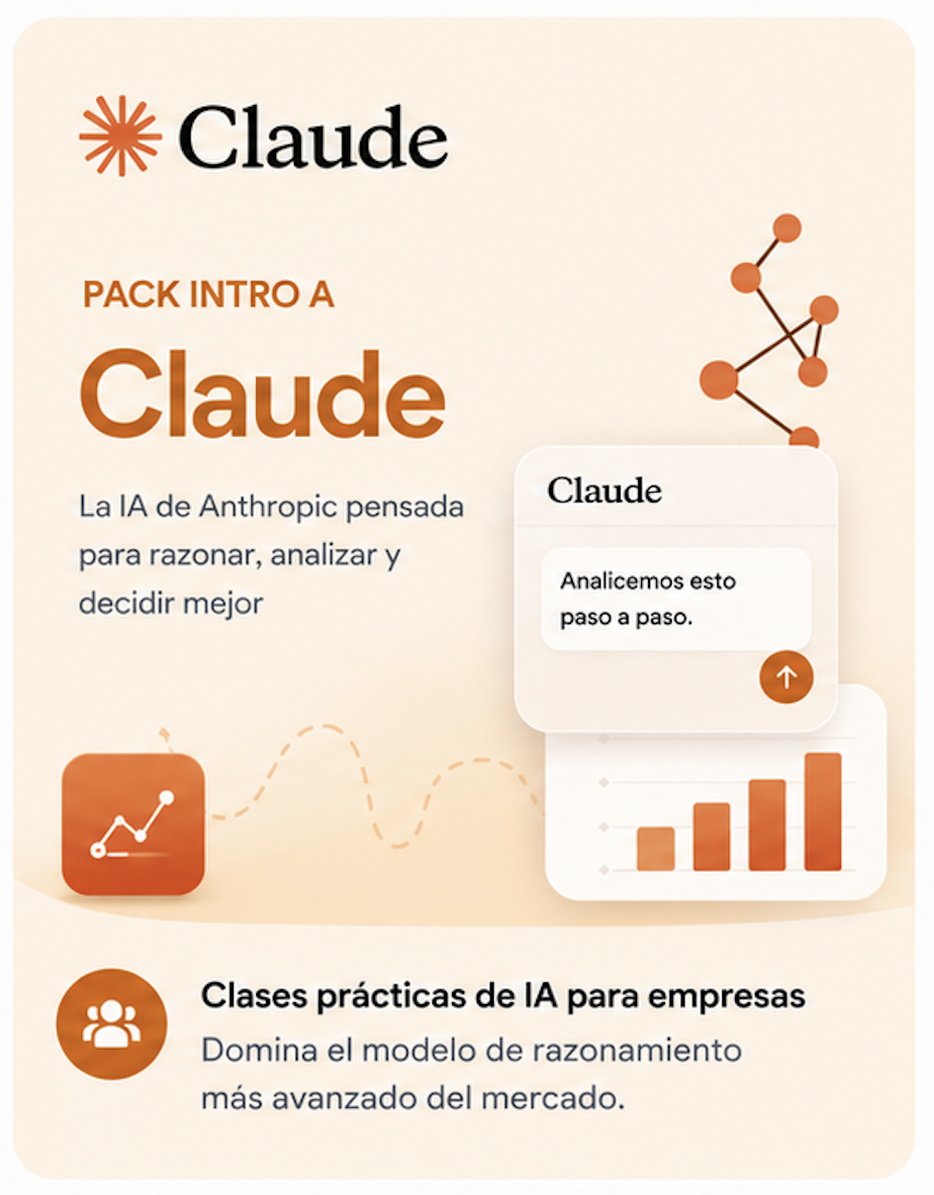
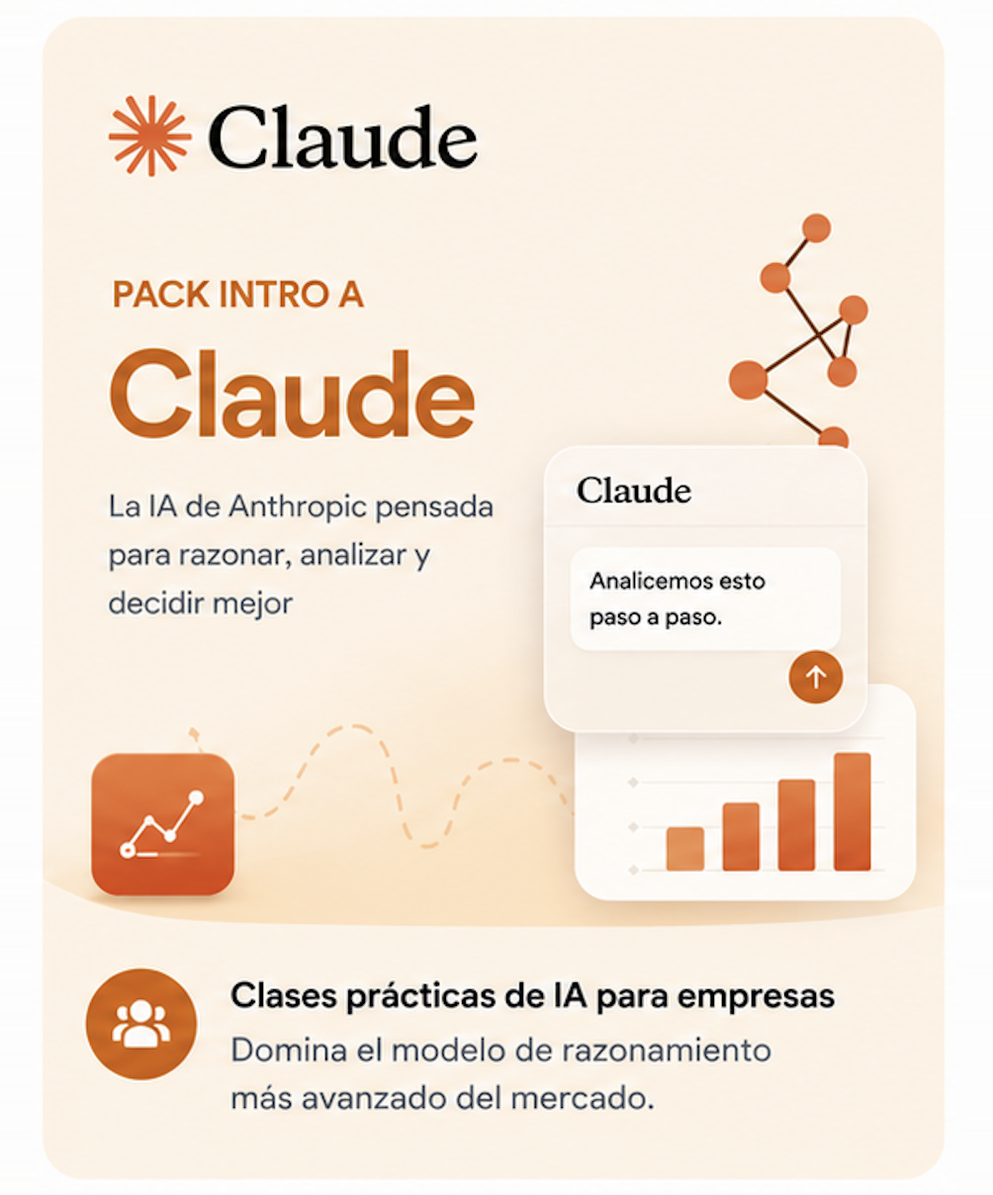
feat(talleres): agrega el Pack ChatGPT · OpenAI
- Nueva página talleres/chatgpt.html con los 3 talleres adaptados
  al ecosistema de OpenAI (taller 1 igual; talleres 2 y 3 con
  productos y herramientas de ChatGPT)
- Tarjeta del pack en talleres-practicos-ia.html: el grid pasa de
  3 a 4 columnas (2 en tablet, 1 en móvil)
- Corrige el recorte lateral de las imágenes de los packs: la altura
  de la tarjeta ahora la define la imagen en vez de un alto fijo con
  object-fit cover, que cortaba entre 40 y 61 px por imagen
- Normaliza las 4 imágenes a la misma proporción (relleno lateral,
  sin recortar contenido) para que las tarjetas queden parejas
- Badge "Pack de 3 talleres" más chico y subido a la franja libre
  superior, para que no pise los logos de las tarjetas
- Ruta corta /pack-chatgpt en vercel.json

diff --git a/talleres/chatgpt.html b/talleres/chatgpt.html
@@ -1,0 +1,329 @@
+<!DOCTYPE html>
+<html lang="es">
+<head>
+  <meta charset="UTF-8">
+  <meta name="viewport" content="width=device-width, initial-scale=1.0">
+  <meta name="robots" content="noindex, nofollow">
+  <title>Pack ChatGPT · OpenAI · 3 Talleres · Reyes IA</title>
+  <link rel="icon" type="image/png" href="/icon%20reyes%20IA.png">
+  <link rel="preconnect" href="https://fonts.googleapis.com">
+  <link rel="preconnect" href="https://fonts.gstatic.com" crossorigin>
+  <link href="https://fonts.googleapis.com/css2?family=Plus+Jakarta+Sans:wght@400;500;600;700;800&family=Caveat:wght@500;700&display=swap" rel="stylesheet">
+  <style>
+    *, *::before, *::after { box-sizing: border-box; margin: 0; padding: 0; }
+    :root {
+      --navy: #1a2537; --gold: #c09b5a; --bg: #f0fdf9;
+      --text: #1a1a1a; --muted: #6b7280; --border: #e5e7eb;
+      --accent: #0F9D77;
+    }
+    body { font-family: 'Plus Jakarta Sans', system-ui, sans-serif; color: var(--text); background: #fff; }
+
+    .header { background: var(--navy); padding: 0 24px; height: 64px; display: flex; align-items: center; justify-content: space-between; position: sticky; top: 0; z-index: 200; box-shadow: 0 2px 12px rgba(0,0,0,.25); }
+    .logo img { height: 44px; object-fit: contain; }
+    .back-btn { background: rgba(255,255,255,.12); color: #fff; padding: 8px 16px; border-radius: 8px; font-weight: 600; font-size: 13px; text-decoration: none; transition: all .2s; border: 1px solid rgba(255,255,255,.2); }
+    .back-btn:hover { background: rgba(255,255,255,.2); }
+
+    .hero { background: linear-gradient(135deg, #0B5F4A 0%, #10A37F 100%); color: #fff; padding: 56px 24px 48px; }
+    .hero-inner { max-width: 960px; margin: 0 auto; display: flex; align-items: center; gap: 32px; justify-content: space-between; }
+    .dp-mini { flex-shrink: 0; text-align: center; transform: rotate(-3deg); background: rgba(255,255,255,.08); border: 1px solid rgba(255,255,255,.15); border-radius: 20px; padding: 14px 18px 12px; transition: transform .3s; }
+    .dp-mini:hover { transform: rotate(-1deg) scale(1.04); }
+    .dp-mini-label { font-family: 'Caveat', cursive; font-size: 15px; color: rgba(255,255,255,.6); line-height: 1.3; }
+    .dp-mini-name { font-family: 'Caveat', cursive; font-size: 24px; font-weight: 700; color: var(--gold); line-height: 1.1; margin: 3px 0 10px; }
+    .dp-mini-icon { width: 68px; height: 68px; border-radius: 50%; object-fit: cover; border: 2px solid rgba(255,255,255,.2); display: block; margin: 0 auto; }
+    .hero-icon { width: 72px; height: 72px; border-radius: 20px; background: linear-gradient(135deg, #0B7A5E, #10A37F); display: flex; align-items: center; justify-content: center; font-size: 36px; flex-shrink: 0; box-shadow: 0 8px 24px rgba(0,0,0,.3); }
+    .hero-badge { display: inline-flex; align-items: center; gap: 5px; background: rgba(255,255,255,.15); border: 1px solid rgba(255,255,255,.25); border-radius: 20px; padding: 4px 12px; font-size: 11px; font-weight: 700; letter-spacing: .5px; text-transform: uppercase; margin-bottom: 10px; }
+    .hero-title { font-size: 2.4rem; font-weight: 800; line-height: 1.1; margin-bottom: 8px; }
+    .hero-sub { font-size: 15px; opacity: .85; line-height: 1.5; }
+
+    .main-wrap { max-width: 960px; margin: 0 auto; padding: 56px 24px; }
+    .content-grid { display: grid; grid-template-columns: 1fr 300px; gap: 40px; align-items: start; }
+
+    .ws-track { display: flex; flex-direction: column; }
+    .ws-step { display: flex; gap: 20px; }
+    .ws-col-l { display: flex; flex-direction: column; align-items: center; }
+    .ws-num { width: 44px; height: 44px; border-radius: 50%; display: flex; align-items: center; justify-content: center; font-weight: 800; font-size: 17px; color: #fff; flex-shrink: 0; background: var(--accent); }
+    .ws-line { flex: 1; width: 2px; background: var(--border); margin: 5px 0; min-height: 28px; }
+    .ws-step:last-child .ws-line { display: none; }
+    .ws-content { padding-bottom: 36px; flex: 1; padding-top: 4px; }
+    .ws-tags { display: flex; align-items: center; gap: 8px; flex-wrap: wrap; margin-bottom: 9px; }
+    .ws-tag { display: inline-flex; align-items: center; border-radius: 20px; padding: 3px 11px; font-size: 11px; font-weight: 700; text-transform: uppercase; letter-spacing: .4px; background: #d1fae5; color: #065f46; }
+    .ws-tag.hands-on { background: #ECFDF5; color: #065F46; border: 1px solid #A7F3D0; }
+    .ws-title { font-size: 18px; font-weight: 800; color: var(--navy); margin-bottom: 9px; line-height: 1.3; }
+    .ws-desc { font-size: 14px; color: #374151; line-height: 1.65; }
+    .ws-chips { display: flex; gap: 8px; margin-top: 12px; flex-wrap: wrap; }
+    .ws-chip { background: #f0fdf9; border: 1px solid #A7F3D0; border-radius: 20px; padding: 4px 11px; font-size: 12px; font-weight: 600; color: #374151; }
+    .ws-topics { display: grid; grid-template-columns: 1fr 1fr; gap: 5px 20px; margin-bottom: 14px; }
+    .wt { display: flex; align-items: flex-start; gap: 8px; font-size: 13px; color: #4B5563; line-height: 1.45; padding: 3px 0; }
+    .wt-dot { width: 6px; height: 6px; border-radius: 50%; background: #D1D5DB; flex-shrink: 0; margin-top: 5px; }
+    @media(max-width:600px){ .ws-topics { grid-template-columns: 1fr; } }
+
+    .price-card { background: #fff; border: 1.5px solid var(--border); border-radius: 20px; overflow: hidden; position: sticky; top: 84px; box-shadow: 0 4px 24px rgba(0,0,0,.07); }
+    .pc-accent { height: 5px; background: var(--accent); }
+    .pc-top { padding: 20px 22px 0; }
+    .pc-label { font-size: 11px; font-weight: 700; text-transform: uppercase; letter-spacing: .5px; color: var(--muted); margin-bottom: 6px; }
+    .pc-breakdown { display: flex; align-items: baseline; gap: 6px; margin-bottom: 3px; }
+    .pc-price { font-size: 42px; font-weight: 800; line-height: 1; color: var(--accent); }
+    .pc-uf { font-size: 16px; font-weight: 700; color: var(--accent); }
+    .pc-per-taller { font-size: 12px; color: var(--muted); margin-bottom: 4px; }
+    .pc-note { font-size: 13px; color: var(--muted); margin-bottom: 16px; }
+    .pc-detail { font-size: 12px; color: #374151; background: #f0fdf9; border-radius: 10px; padding: 9px 12px; margin-bottom: 18px; line-height: 1.55; }
+    .pc-includes { list-style: none; display: flex; flex-direction: column; gap: 9px; margin-bottom: 20px; padding: 0 2px; }
+    .pc-includes li { display: flex; align-items: flex-start; gap: 9px; font-size: 13px; color: #374151; line-height: 1.4; }
+    .pc-check { font-size: 13px; font-weight: 700; flex-shrink: 0; margin-top: 1px; color: var(--accent); }
+    .pc-cta { display: block; text-align: center; padding: 14px; border-radius: 12px; font-weight: 700; font-size: 14px; text-decoration: none; color: #fff; transition: all .2s; border: none; cursor: pointer; font-family: inherit; width: 100%; background: var(--accent); }
+    .pc-cta:hover { filter: brightness(1.1); transform: translateY(-1px); box-shadow: 0 6px 16px rgba(16,163,127,.35); }
+    .pc-bottom { padding: 14px 22px 18px; border-top: 1px solid var(--border); }
+    .pc-footer-txt { font-size: 12px; color: var(--muted); text-align: center; line-height: 1.55; }
+
+    .contact-section { padding: 64px 24px; background: #f0fdf9; }
+    .contact-inner { max-width: 600px; margin: 0 auto; }
+    .contact-title { font-size: 1.8rem; font-weight: 800; color: var(--navy); text-align: center; margin-bottom: 8px; }
+    .contact-sub { font-size: 14px; color: var(--muted); text-align: center; margin-bottom: 32px; line-height: 1.55; }
+    .contact-form-box { background: #fff; border-radius: 20px; padding: 32px; border: 1.5px solid #A7F3D0; box-shadow: 0 4px 24px rgba(0,0,0,.06); }
+    .form-row { display: grid; grid-template-columns: 1fr 1fr; gap: 16px; }
+    .form-group { display: flex; flex-direction: column; gap: 6px; margin-bottom: 18px; }
+    .form-group label { font-size: 13px; font-weight: 700; color: var(--navy); }
+    .form-group input, .form-group select, .form-group textarea { border: 1.5px solid var(--border); border-radius: 10px; padding: 11px 14px; font-size: 14px; font-family: inherit; color: var(--text); background: #fff; transition: border-color .2s; outline: none; }
+    .form-group input:focus, .form-group select:focus, .form-group textarea:focus { border-color: var(--accent); }
+    .form-group textarea { resize: vertical; min-height: 90px; }
+    .form-submit { background: var(--accent); color: #fff; padding: 14px; border-radius: 12px; border: none; font-size: 15px; font-weight: 700; font-family: inherit; cursor: pointer; width: 100%; transition: all .2s; }
+    .form-submit:hover { filter: brightness(1.1); transform: translateY(-1px); }
+    .form-success { display: none; text-align: center; padding: 24px; }
+    .form-success.show { display: block; }
+    .form-success-icon { font-size: 48px; margin-bottom: 12px; }
+    .form-success h3 { font-size: 20px; font-weight: 800; color: var(--navy); margin-bottom: 8px; }
+    .form-success p { font-size: 14px; color: var(--muted); }
+
+    .footer { background: var(--navy); color: #fff; text-align: center; padding: 28px 24px; font-size: 13px; }
+    .footer a { color: var(--gold); text-decoration: none; margin: 0 6px; }
+
+    @media(max-width: 768px){
+      .hero-inner { flex-direction: column; align-items: flex-start; }
+      .hero-title { font-size: 1.8rem; }
+      .content-grid { grid-template-columns: 1fr; }
+      .price-card { position: static; }
+      .form-row { grid-template-columns: 1fr; }
+      .dp-mini { display: none; }
+    }
+  </style>
+</head>
+<body>
+
+<header class="header">
+  <a href="../talleres-practicos-ia.html" class="logo"><img src="../logo reyes IA horizontal blanco.png" alt="Reyes IA"></a>
+  <a href="../talleres-practicos-ia.html" class="back-btn">← Volver a talleres</a>
+</header>
+
+<section class="hero">
+  <div class="hero-inner">
+    <div class="hero-icon">
+      <svg width="44" height="44" viewBox="0 0 24 24" fill="none" aria-hidden="true">
+        <path fill="#fff" d="M22.2819 9.8211a5.9847 5.9847 0 0 0-.5157-4.9108 6.0462 6.0462 0 0 0-6.5098-2.9A6.0651 6.0651 0 0 0 4.9807 4.1818a5.9847 5.9847 0 0 0-3.9977 2.9 6.0462 6.0462 0 0 0 .7427 7.0966 5.98 5.98 0 0 0 .511 4.9107 6.051 6.051 0 0 0 6.5146 2.9001A5.9847 5.9847 0 0 0 13.2599 24a6.0557 6.0557 0 0 0 5.7718-4.2058 5.9894 5.9894 0 0 0 3.9977-2.9001 6.0557 6.0557 0 0 0-.7475-7.0729zm-9.022 12.6081a4.4755 4.4755 0 0 1-2.8764-1.0408l.1419-.0804 4.7783-2.7582a.7948.7948 0 0 0 .3927-.6813v-6.7369l2.02 1.1686a.071.071 0 0 1 .038.052v5.5826a4.504 4.504 0 0 1-4.4945 4.4944zm-9.6607-4.1254a4.4708 4.4708 0 0 1-.5346-3.0137l.142.0852 4.783 2.7582a.7712.7712 0 0 0 .7806 0l5.8428-3.3685v2.3324a.0804.0804 0 0 1-.0332.0615L9.74 19.9502a4.4992 4.4992 0 0 1-6.1408-1.6464zM2.3408 7.8956a4.485 4.485 0 0 1 2.3655-1.9728V11.6a.7664.7664 0 0 0 .3879.6765l5.8144 3.3543-2.0201 1.1685a.0757.0757 0 0 1-.071 0l-4.8303-2.7865A4.504 4.504 0 0 1 2.3408 7.872zm16.5963 3.8558L13.1038 8.364 15.1192 7.2a.0757.0757 0 0 1 .071 0l4.8303 2.7913a4.4944 4.4944 0 0 1-.6765 8.1042v-5.6772a.79.79 0 0 0-.407-.667zm2.0107-3.0231l-.142-.0852-4.7735-2.7818a.7759.7759 0 0 0-.7854 0L9.409 9.2297V6.8974a.0662.0662 0 0 1 .0284-.0615l4.8303-2.7866a4.4992 4.4992 0 0 1 6.6802 4.66zM8.3065 12.863l-2.02-1.1638a.0804.0804 0 0 1-.038-.0567V6.0742a4.4992 4.4992 0 0 1 7.3757-3.4537l-.142.0805L8.704 5.459a.7948.7948 0 0 0-.3927.6813zm1.0976-2.3654l2.602-1.4998 2.6069 1.4998v2.9994l-2.5974 1.4997-2.6067-1.4997Z"/>
+      </svg>
+    </div>
+    <div>
+      <div class="hero-badge">Pack de 3 talleres</div>
+      <div class="hero-title">ChatGPT · OpenAI</div>
+      <div class="hero-sub">La IA más usada del mundo, aplicada al trabajo diario de tu equipo</div>
+    </div>
+    <div class="dp-mini">
+      <div class="dp-mini-label">talleres presenciales</div>
+      <div class="dp-mini-label">dictados por</div>
+      <div class="dp-mini-name">Felipe Reyes</div>
+      <img src="../icon-felipe.png" alt="Felipe Reyes" class="dp-mini-icon">
+    </div>
+  </div>
+</section>
+
+<div style="background:#f8fafc; padding: 32px 24px 0;">
+  <div style="max-width:960px; margin:0 auto;">
+    <img src="img-talleres-realizados.png" alt="Talleres realizados" style="width:100%; border-radius:16px; display:block; box-shadow:0 4px 24px rgba(0,0,0,.1);">
+    <p style="text-align:right; font-size:13px; font-weight:600; color:#6b7280; margin-top:10px;">+ 150 empresas capacitadas en IA aplicada</p>
+  </div>
+</div>
+
+<div class="main-wrap">
+  <div class="content-grid">
+    <div class="ws-track">
+      <div class="ws-step">
+        <div class="ws-col-l">
+          <div class="ws-num">1</div>
+          <div class="ws-line"></div>
+        </div>
+        <div class="ws-content">
+          <div class="ws-tags">
+            <span class="ws-tag">Taller 1 · Introductorio</span>
+          </div>
+          <div class="ws-title">Introducción a la IA + Tour por ChatGPT</div>
+          <div class="ws-topics">
+            <span class="wt"><span class="wt-dot"></span>Intro a la Inteligencia Artificial</span>
+            <span class="wt"><span class="wt-dot"></span>3 verdades sobre uso de IA</span>
+            <span class="wt"><span class="wt-dot"></span>Intro al mundo LLM</span>
+            <span class="wt"><span class="wt-dot"></span>Fundamentos del prompt</span>
+            <span class="wt"><span class="wt-dot"></span>Ejemplos de uso cotidiano</span>
+            <span class="wt"><span class="wt-dot"></span>Intro a ChatGPT</span>
+            <span class="wt"><span class="wt-dot"></span>Activaciones modelos</span>
+            <span class="wt"><span class="wt-dot"></span>4 esferas IA generativa</span>
+            <span class="wt"><span class="wt-dot"></span>Concepto "memorización"</span>
+            <span class="wt"><span class="wt-dot"></span>Herramienta dictado</span>
+            <span class="wt"><span class="wt-dot"></span>Confidencialidad</span>
+            <span class="wt"><span class="wt-dot"></span>Regulaciones actuales IA</span>
+            <span class="wt"><span class="wt-dot"></span>Uso responsable</span>
+            <span class="wt"><span class="wt-dot"></span>IA en los próximos años</span>
+          </div>
+          <div class="ws-chips">
+            <span class="ws-chip">⏱ 1.5 hrs</span>
+            <span class="ws-chip">Presencial</span>
+          </div>
+        </div>
+      </div>
+      <div class="ws-step">
+        <div class="ws-col-l">
+          <div class="ws-num">2</div>
+          <div class="ws-line"></div>
+        </div>
+        <div class="ws-content">
+          <div class="ws-tags">
+            <span class="ws-tag">Taller 2 · ChatGPT App</span>
+            <span class="ws-tag hands-on">Metodología Hands-On</span>
+          </div>
+          <div class="ws-title">Dominio de la App de ChatGPT</div>
+          <div class="ws-topics">
+            <span class="wt"><span class="wt-dot"></span>Recap general</span>
+            <span class="wt"><span class="wt-dot"></span>Tour por ChatGPT</span>
+            <span class="wt"><span class="wt-dot"></span>3 mundos en ChatGPT</span>
+            <span class="wt"><span class="wt-dot"></span>ChatGPT chat</span>
+            <span class="wt"><span class="wt-dot"></span>Sidebar opciones</span>
+            <span class="wt"><span class="wt-dot"></span>Razonamiento (Thinking / Pro)</span>
+            <span class="wt"><span class="wt-dot"></span>Tools / herramientas</span>
+            <span class="wt"><span class="wt-dot"></span>Conectores y MCP ⭐</span>
+            <span class="wt"><span class="wt-dot"></span>Memoria e instrucciones personalizadas</span>
+            <span class="wt"><span class="wt-dot"></span>Proyectos ⭐</span>
+            <span class="wt"><span class="wt-dot"></span>ChatGPT en el Office ⭐</span>
+            <span class="wt"><span class="wt-dot"></span>Optimización de uso y límites</span>
+          </div>
+          <div class="ws-chips">
+            <span class="ws-chip">⏱ 1.5 hrs</span>
+            <span class="ws-chip">Presencial</span>
+          </div>
+        </div>
+      </div>
+      <div class="ws-step">
+        <div class="ws-col-l">
+          <div class="ws-num">3</div>
+        </div>
+        <div class="ws-content">
+          <div class="ws-tags">
+            <span class="ws-tag">Taller 3 · ChatGPT Avanzado</span>
+            <span class="ws-tag hands-on">Metodología Hands-On</span>
+          </div>
+          <div class="ws-title">Agentes, Canvas & GPTs</div>
+          <div class="ws-topics">
+            <span class="wt"><span class="wt-dot"></span>GPTs personalizados ⭐</span>
+            <span class="wt"><span class="wt-dot"></span>Apps y conectores ⭐</span>
+            <span class="wt"><span class="wt-dot"></span>Canvas ⭐</span>
+            <span class="wt"><span class="wt-dot"></span>ChatGPT Agente</span>
+            <span class="wt"><span class="wt-dot"></span>Agente · acciones reactivas</span>
+            <span class="wt"><span class="wt-dot"></span>Agente · tareas programadas</span>
+            <span class="wt"><span class="wt-dot"></span>Agente · navegación en vivo ⭐</span>
+            <span class="wt"><span class="wt-dot"></span>Deep Research</span>
+            <span class="wt"><span class="wt-dot"></span>Intro Agentes</span>
+            <span class="wt"><span class="wt-dot"></span>Agentes optimizados</span>
+          </div>
+          <div class="ws-chips">
+            <span class="ws-chip">⏱ 1.5 hrs</span>
+            <span class="ws-chip">Presencial</span>
+          </div>
+        </div>
+      </div>
+    </div>
+
+    <div class="price-card">
+      <div class="pc-accent"></div>
+      <div class="pc-top">
+        <div class="pc-label">Costo del programa</div>
+        <div class="pc-breakdown">
+          <span class="pc-price">51</span>
+          <span class="pc-uf">UF</span>
+        </div>
+        <div class="pc-per-taller">17 UF por taller · pack de 3</div>
+        <div class="pc-note">Total programa completo</div>
+        <div class="pc-detail">hasta 20 personas por sesión · 4.5 hrs en total</div>
+        <ul class="pc-includes">
+          <li><span class="pc-check">✓</span>Portal web exclusivo del equipo</li>
+          <li><span class="pc-check">✓</span>Quiz interactivo por sesión</li>
+          <li><span class="pc-check">✓</span>Habilidades desbloqueables + desafíos entre sesiones</li>
+          <li><span class="pc-check">✓</span>PPT descargable post-taller</li>
+          <li><span class="pc-check">✓</span>Presencial · también disponible online</li>
+          <li><span class="pc-check">✓</span>Talleres en oficinas del cliente</li>
+        </ul>
+        <button class="pc-cta" onclick="document.getElementById('contacto').scrollIntoView({behavior:'smooth'})">Me interesa este pack →</button>
+      </div>
+      <div class="pc-bottom">
+        <div class="pc-footer-txt">📅 Coordinamos fechas según tu calendario</div>
+      </div>
+    </div>
+  </div>
+</div>
+
+<section id="contacto" class="contact-section">
+  <div class="contact-inner">
+    <div class="contact-title">¿Te interesa el Pack ChatGPT?</div>
+    <div class="contact-sub">Completa el formulario y te contacto en menos de 24 horas para coordinar fechas y ajustar el programa a tu equipo.</div>
+    <div class="contact-form-box">
+      <div class="form-success" id="formSuccess">
+        <div class="form-success-icon">🎉</div>
+        <h3>¡Mensaje recibido!</h3>
+        <p>Te contactaré en menos de 24 horas para coordinar los detalles del programa.</p>
+      </div>
+      <form id="talleresForm" action="https://formspree.io/f/mvgbjoyy" method="POST">
+        <input type="hidden" name="servicio" value="Pack ChatGPT · 3 Talleres">
+        <div class="form-row">
+          <div class="form-group">
+            <label>Nombre *</label>
+            <input type="text" name="nombre" required placeholder="Tu nombre">
+          </div>
+          <div class="form-group">
+            <label>Empresa *</label>
+            <input type="text" name="empresa" required placeholder="Nombre de la empresa">
+          </div>
+        </div>
+        <div class="form-row">
+          <div class="form-group">
+            <label>Email *</label>
+            <input type="email" name="email" required placeholder="tu@empresa.com">
+          </div>
+          <div class="form-group">
+            <label>Teléfono</label>
+            <input type="tel" name="telefono" placeholder="+56 9 XXXX XXXX">
+          </div>
+        </div>
+        <div class="form-group">
+          <label>Mensaje (opcional)</label>
+          <textarea name="mensaje" placeholder="Tamaño del equipo, fechas tentativas u otras consultas…"></textarea>
+        </div>
+        <button type="submit" class="form-submit">Me interesa, quiero este programa →</button>
+      </form>
+    </div>
+  </div>
+</section>
+
+<footer class="footer">
+  <p>✉ <a href="mailto:felipe@reyesia.com">felipe@reyesia.com</a> · <a href="/">reyesia.com</a></p>
+  <p style="margin-top:8px;opacity:.5;">© 2025 Reyes IA</p>
+</footer>
+
+<script>
+  document.getElementById('talleresForm').addEventListener('submit', async function(e){
+    e.preventDefault();
+    const btn = this.querySelector('.form-submit');
+    btn.textContent = 'Enviando…'; btn.disabled = true;
+    try {
+      const res = await fetch(this.action, { method:'POST', body: new FormData(this), headers:{'Accept':'application/json'} });
+      if(res.ok){ this.style.display='none'; document.getElementById('formSuccess').classList.add('show'); }
+      else { btn.textContent = 'Error al enviar. Intenta de nuevo.'; btn.disabled = false; }
+    } catch { btn.textContent = 'Error al enviar. Intenta de nuevo.'; btn.disabled = false; }
+  });
+</script>
+</body>
+</html>

diff --git a/talleres-practicos-ia.html b/talleres-practicos-ia.html
@@ -5,7 +5,7 @@
   <meta name="viewport" content="width=device-width, initial-scale=1.0">
   <meta name="robots" content="noindex, nofollow">
   <title>Talleres de IA por Ecosistema · Reyes IA</title>
-  <meta name="description" content="3 talleres intensivos de IA adaptados al ecosistema que ya usa tu empresa: Microsoft Copilot, Google Gemini o Claude.">
+  <meta name="description" content="3 talleres intensivos de IA adaptados al ecosistema que ya usa tu empresa: ChatGPT, Microsoft Copilot, Google Gemini o Claude.">
   <link rel="icon" type="image/png" href="/icon%20reyes%20IA.png">
   <link rel="preconnect" href="https://fonts.googleapis.com">
   <link rel="preconnect" href="https://fonts.gstatic.com" crossorigin>
@@ -37,10 +37,11 @@
     .dp-name { font-family: 'Caveat', cursive; font-size: 34px; font-weight: 700; color: var(--gold); line-height: 1.1; margin-bottom: 16px; }
     .dp-icon { width: 100px; height: 100px; border-radius: 50%; object-fit: cover; border: 3px solid rgba(255,255,255,.25); display: block; margin: 0 auto; }
     .hero-creds { display: flex; flex-wrap: nowrap; gap: 6px; margin-top: 22px; }
-    .hero-cred { flex: 1 1 0; display: flex; align-items: center; justify-content: center; gap: 5px; background: rgba(255,255,255,.1); border: 1px solid rgba(255,255,255,.15); border-radius: 20px; padding: 4px 8px; font-size: 10.5px; font-weight: 600; color: rgba(255,255,255,.82); text-align: center; }
+    .hero-cred { flex: 1 1 0; display: flex; align-items: center; justify-content: center; gap: 5px; background: rgba(255,255,255,.1); border: 1px solid rgba(255,255,255,.15); border-radius: 20px; padding: 4px 8px; font-size: 11px; font-weight: 600; color: rgba(255,255,255,.82); text-align: center; }
     .hero-cred-dot { width: 5px; height: 5px; border-radius: 50%; background: var(--gold); flex-shrink: 0; }
 
     @media(max-width: 768px){
+      .hero-cred { font-size: 9px; }
       .hero-inner { flex-direction: column; gap: 20px; }
       .dictado-por { transform: none; flex-direction: row; align-items: center; gap: 10px; padding: 8px 14px 8px 8px; border-radius: 40px; display: inline-flex; }
       .dp-label { font-size: 12px; line-height: 1.3; }
@@ -49,11 +50,15 @@
     }
 
     .eco-cards-section { background: var(--navy); padding: 0 24px 56px; }
-    .eco-cards-grid { max-width: 960px; margin: 0 auto; display: grid; grid-template-columns: repeat(3,1fr); gap: 16px; }
-    .eco-card { border-radius: 20px; overflow: hidden; text-decoration: none; display: block; position: relative; transition: transform .25s, box-shadow .25s; box-shadow: 0 4px 20px rgba(0,0,0,.25); height: 420px; }
+    .eco-cards-grid { max-width: 1280px; margin: 0 auto; display: grid; grid-template-columns: repeat(4,1fr); gap: 16px; align-items: start; }
+    .eco-card { border-radius: 20px; overflow: hidden; text-decoration: none; display: block; position: relative; transition: transform .25s, box-shadow .25s; box-shadow: 0 4px 20px rgba(0,0,0,.25); }
     .eco-card:hover { transform: translateY(-6px); box-shadow: 0 16px 40px rgba(0,0,0,.35); }
-    .eco-card img { width: 100%; height: 100%; object-fit: cover; object-position: top; display: block; }
-    .eco-badge { position: absolute; top: 12px; right: 12px; background: rgba(255,255,255,.95); color: var(--navy); font-size: 10px; font-weight: 800; text-transform: uppercase; letter-spacing: .6px; padding: 4px 10px; border-radius: 20px; box-shadow: 0 2px 8px rgba(0,0,0,.2); display: flex; align-items: center; gap: 4px; }
+    .eco-card img { width: 100%; height: auto; display: block; }
+    .eco-badge { position: absolute; top: 6px; right: 8px; background: rgba(255,255,255,.95); color: var(--navy); font-size: 9px; line-height: 1; font-weight: 800; text-transform: uppercase; letter-spacing: .3px; padding: 3px 9px; border-radius: 20px; box-shadow: 0 2px 8px rgba(0,0,0,.2); display: flex; align-items: center; gap: 3px; }
+
+    @media(max-width: 1100px){
+      .eco-cards-grid { max-width: 700px; grid-template-columns: repeat(2,1fr); }
+    }
 
     .diff-strip { background: var(--navy); color: #fff; padding: 56px 24px; border-top: 1px solid rgba(255,255,255,.08); }
     .diff-inner { max-width: 960px; margin: 0 auto; }
@@ -70,8 +75,7 @@
 
     @media(max-width: 768px){
       .hero h1 { font-size: 2.1rem; }
-      .eco-cards-grid { grid-template-columns: 1fr; }
-      .eco-card { height: 300px; }
+      .eco-cards-grid { grid-template-columns: 1fr; max-width: 420px; }
       .diff-grid { grid-template-columns: repeat(2,1fr); }
     }
   </style>
@@ -107,6 +111,10 @@
 
 <section class="eco-cards-section">
   <div class="eco-cards-grid">
+    <a href="talleres/chatgpt.html" class="eco-card">
+      <img src="talleres/img-chatgpt.png" alt="Pack ChatGPT OpenAI">
+      <div class="eco-badge">📦 Pack de 3 talleres</div>
+    </a>
     <a href="talleres/copilot.html" class="eco-card">
       <img src="talleres/img-copilot.png" alt="Pack Microsoft Copilot">
       <div class="eco-badge">📦 Pack de 3 talleres</div>
